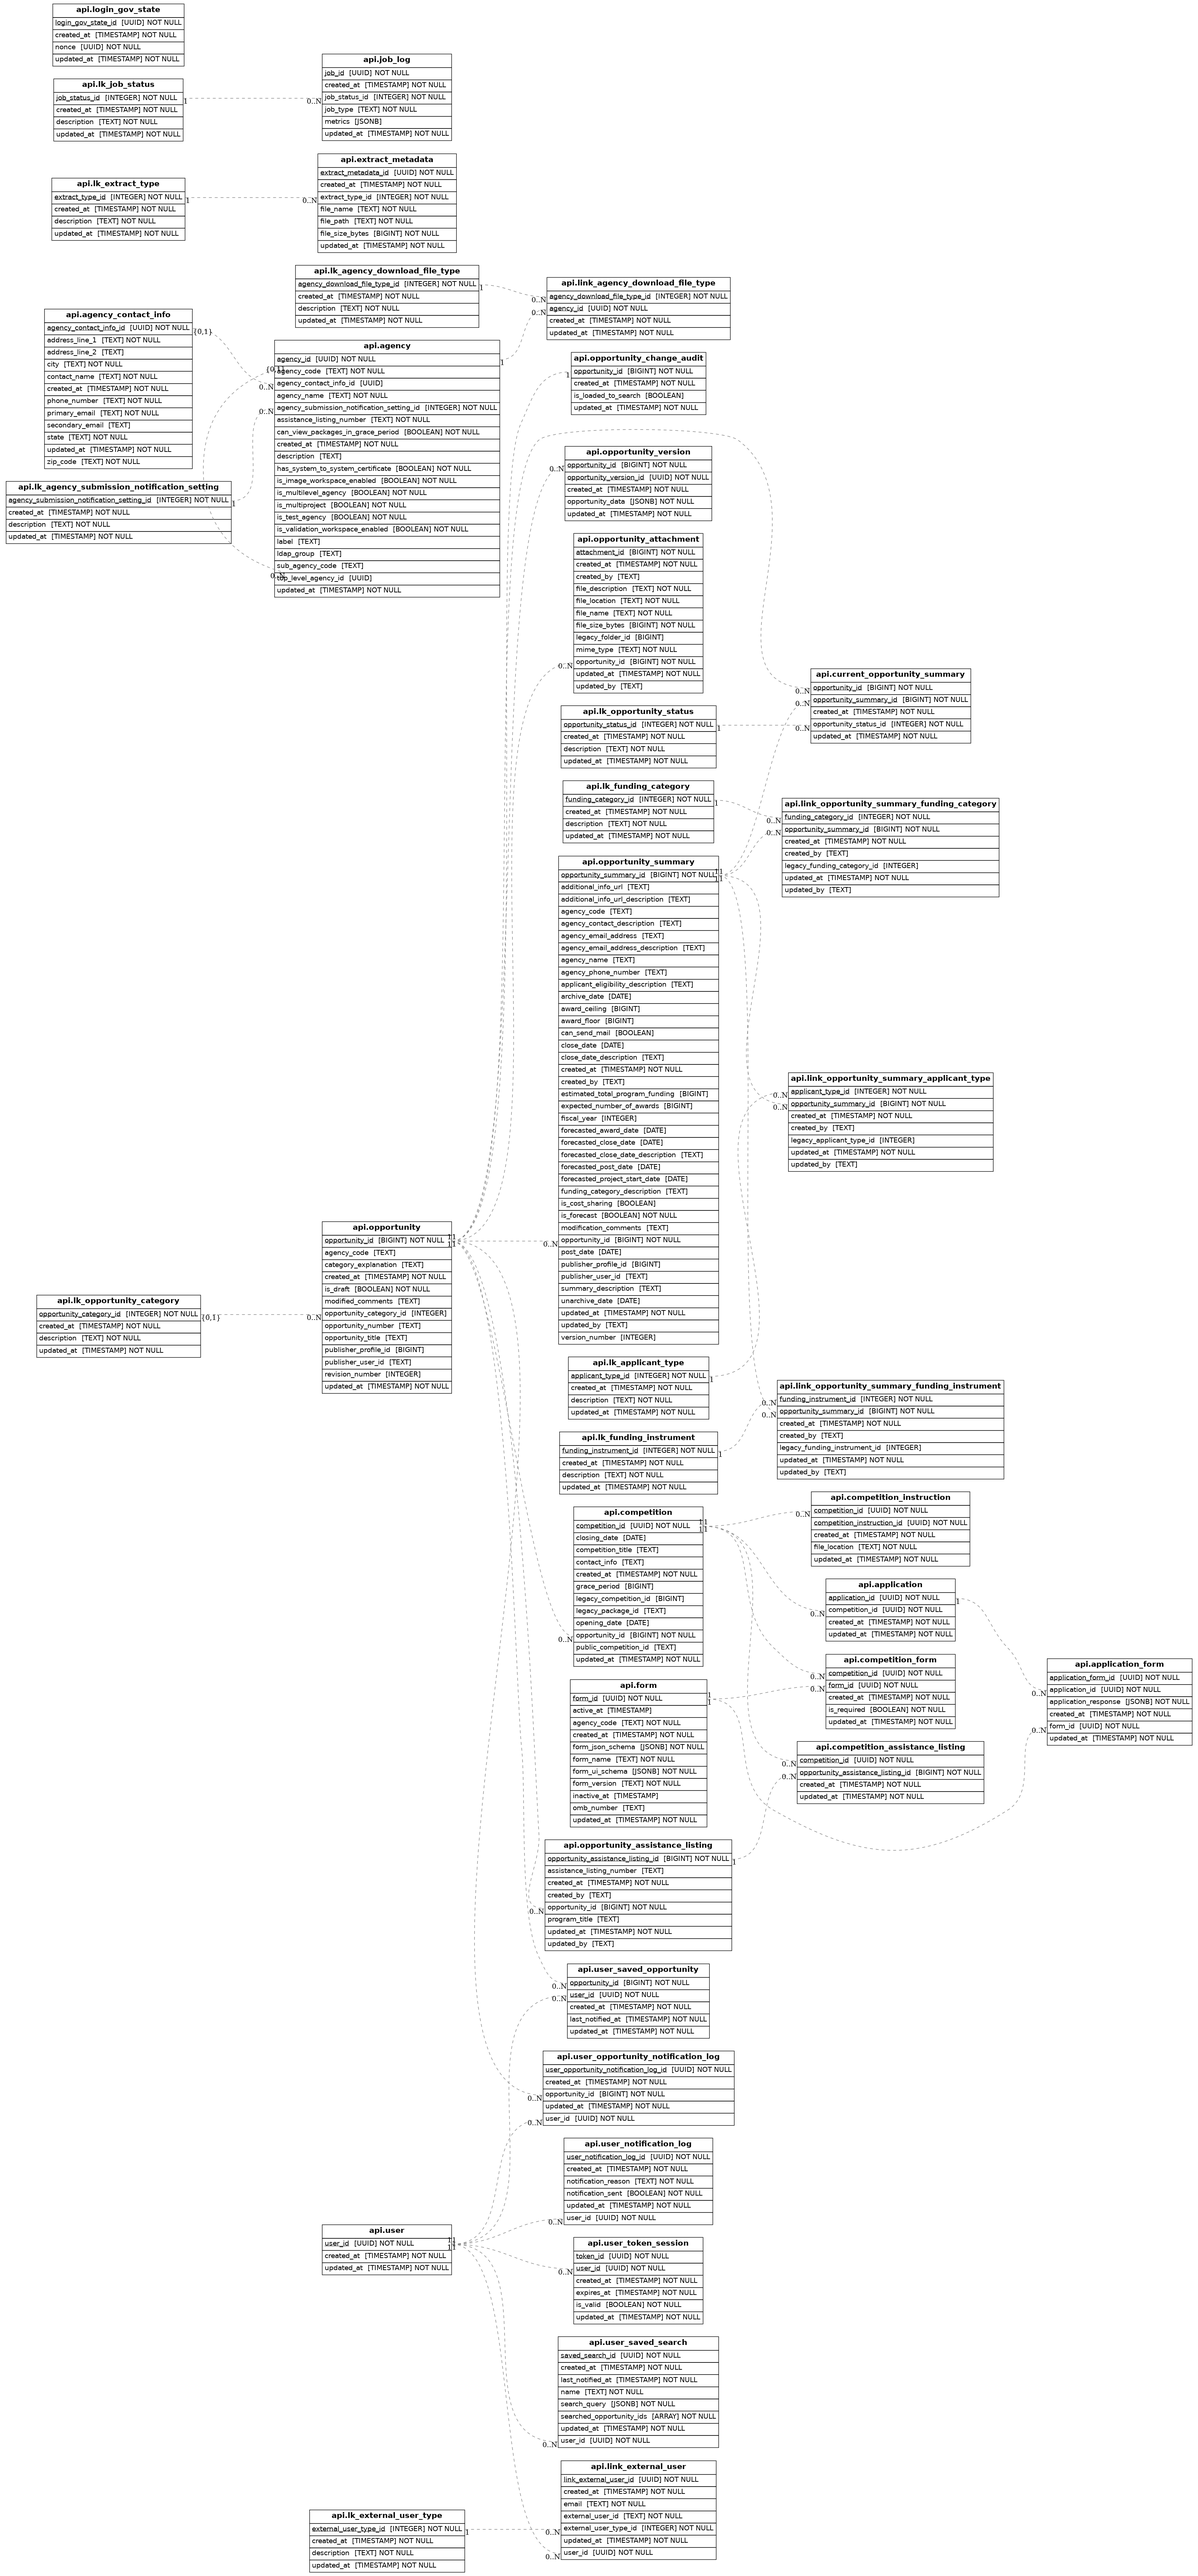
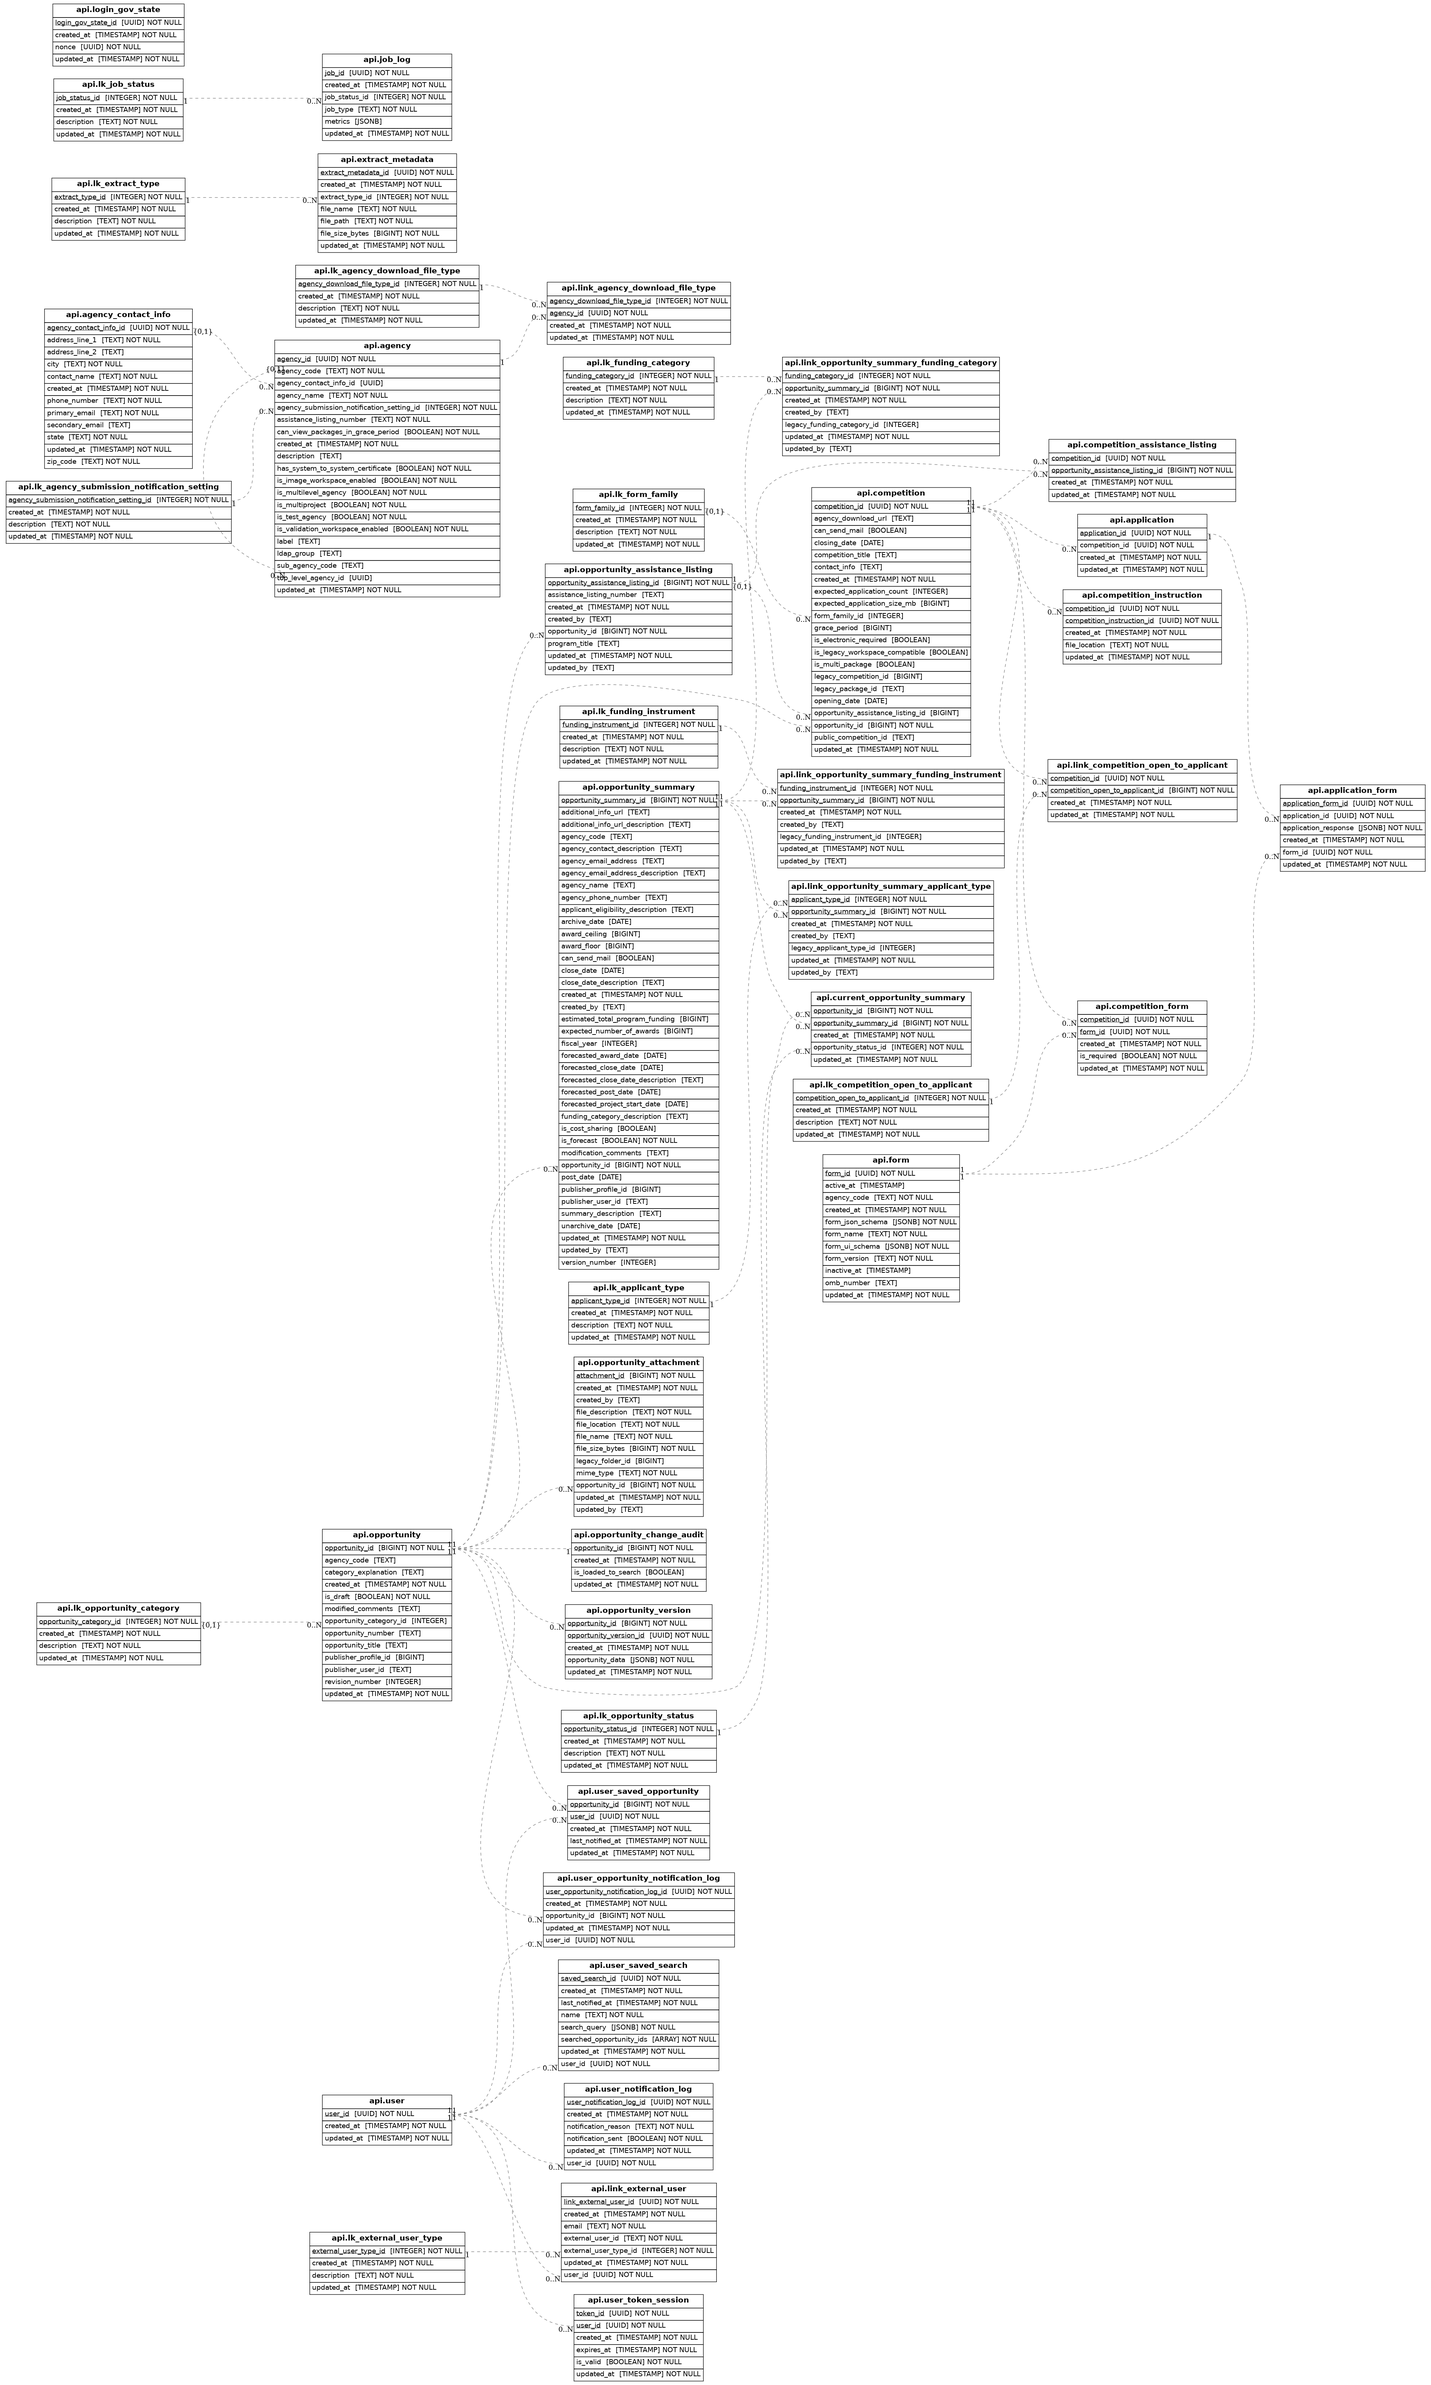
[Issue #4478] Modify our competition table to include extra columns (#4624)
## Summary
Fixes #4478 

### Time to review: 10 mins

## Changes proposed
Add lookup and link tables
Add new columns to `Competition` model
Add migration

## Context for reviewers
This supports the data integration epic for Simpler SOAP:
https://github.com/HHS/simpler-grants-gov/issues/4440

diff --git a/api/src/db/migrations/versions/2025_04_16_add_new_competition_fields.py b/api/src/db/migrations/versions/2025_04_16_add_new_competition_fields.py
@@ -1,0 +1,188 @@
+"""Add new competition fields
+
+Revision ID: aced7c37b75c
+Revises: 617374e55b71
+Create Date: 2025-04-16 19:21:37.501934
+
+"""
+
+import sqlalchemy as sa
+from alembic import op
+
+# revision identifiers, used by Alembic.
+revision = "aced7c37b75c"
+down_revision = "617374e55b71"
+branch_labels = None
+depends_on = None
+
+
+def upgrade():
+    # ### commands auto generated by Alembic - please adjust! ###
+    op.create_table(
+        "lk_competition_open_to_applicant",
+        sa.Column("competition_open_to_applicant_id", sa.Integer(), nullable=False),
+        sa.Column("description", sa.Text(), nullable=False),
+        sa.Column(
+            "created_at",
+            sa.TIMESTAMP(timezone=True),
+            server_default=sa.text("now()"),
+            nullable=False,
+        ),
+        sa.Column(
+            "updated_at",
+            sa.TIMESTAMP(timezone=True),
+            server_default=sa.text("now()"),
+            nullable=False,
+        ),
+        sa.PrimaryKeyConstraint(
+            "competition_open_to_applicant_id", name=op.f("lk_competition_open_to_applicant_pkey")
+        ),
+        schema="api",
+    )
+    op.create_table(
+        "lk_form_family",
+        sa.Column("form_family_id", sa.Integer(), nullable=False),
+        sa.Column("description", sa.Text(), nullable=False),
+        sa.Column(
+            "created_at",
+            sa.TIMESTAMP(timezone=True),
+            server_default=sa.text("now()"),
+            nullable=False,
+        ),
+        sa.Column(
+            "updated_at",
+            sa.TIMESTAMP(timezone=True),
+            server_default=sa.text("now()"),
+            nullable=False,
+        ),
+        sa.PrimaryKeyConstraint("form_family_id", name=op.f("lk_form_family_pkey")),
+        schema="api",
+    )
+    op.create_table(
+        "link_competition_open_to_applicant",
+        sa.Column("competition_id", sa.UUID(), nullable=False),
+        sa.Column("competition_open_to_applicant_id", sa.BigInteger(), nullable=False),
+        sa.Column(
+            "created_at",
+            sa.TIMESTAMP(timezone=True),
+            server_default=sa.text("now()"),
+            nullable=False,
+        ),
+        sa.Column(
+            "updated_at",
+            sa.TIMESTAMP(timezone=True),
+            server_default=sa.text("now()"),
+            nullable=False,
+        ),
+        sa.ForeignKeyConstraint(
+            ["competition_id"],
+            ["api.competition.competition_id"],
+            name=op.f("link_competition_open_to_applicant_competition_id_competition_fkey"),
+        ),
+        sa.ForeignKeyConstraint(
+            ["competition_open_to_applicant_id"],
+            ["api.lk_competition_open_to_applicant.competition_open_to_applicant_id"],
+            name=op.f(
+                "link_competition_open_to_applicant_competition_open_to_applicant_id_lk_competition_open_to_applicant_fkey"
+            ),
+        ),
+        sa.PrimaryKeyConstraint(
+            "competition_id",
+            "competition_open_to_applicant_id",
+            name=op.f("link_competition_open_to_applicant_pkey"),
+        ),
+        schema="api",
+    )
+    op.add_column(
+        "competition", sa.Column("form_family_id", sa.Integer(), nullable=True), schema="api"
+    )
+    op.add_column(
+        "competition",
+        sa.Column("opportunity_assistance_listing_id", sa.BigInteger(), nullable=True),
+        schema="api",
+    )
+    op.add_column(
+        "competition",
+        sa.Column("is_electronic_required", sa.Boolean(), nullable=True),
+        schema="api",
+    )
+    op.add_column(
+        "competition",
+        sa.Column("expected_application_count", sa.Integer(), nullable=True),
+        schema="api",
+    )
+    op.add_column(
+        "competition",
+        sa.Column("expected_application_size_mb", sa.BigInteger(), nullable=True),
+        schema="api",
+    )
+    op.add_column(
+        "competition", sa.Column("is_multi_package", sa.Boolean(), nullable=True), schema="api"
+    )
+    op.add_column(
+        "competition", sa.Column("agency_download_url", sa.Text(), nullable=True), schema="api"
+    )
+    op.add_column(
+        "competition",
+        sa.Column("is_legacy_workspace_compatible", sa.Boolean(), nullable=True),
+        schema="api",
+    )
+    op.add_column(
+        "competition", sa.Column("can_send_mail", sa.Boolean(), nullable=True), schema="api"
+    )
+    op.create_index(
+        op.f("competition_form_family_id_idx"),
+        "competition",
+        ["form_family_id"],
+        unique=False,
+        schema="api",
+    )
+    op.create_foreign_key(
+        op.f("competition_opportunity_assistance_listing_id_opportunity_assistance_listing_fkey"),
+        "competition",
+        "opportunity_assistance_listing",
+        ["opportunity_assistance_listing_id"],
+        ["opportunity_assistance_listing_id"],
+        source_schema="api",
+        referent_schema="api",
+    )
+    op.create_foreign_key(
+        op.f("competition_form_family_id_lk_form_family_fkey"),
+        "competition",
+        "lk_form_family",
+        ["form_family_id"],
+        ["form_family_id"],
+        source_schema="api",
+        referent_schema="api",
+    )
+    # ### end Alembic commands ###
+
+
+def downgrade():
+    # ### commands auto generated by Alembic - please adjust! ###
+    op.drop_constraint(
+        op.f("competition_form_family_id_lk_form_family_fkey"),
+        "competition",
+        schema="api",
+        type_="foreignkey",
+    )
+    op.drop_constraint(
+        op.f("competition_opportunity_assistance_listing_id_opportunity_assistance_listing_fkey"),
+        "competition",
+        schema="api",
+        type_="foreignkey",
+    )
+    op.drop_index(op.f("competition_form_family_id_idx"), table_name="competition", schema="api")
+    op.drop_column("competition", "can_send_mail", schema="api")
+    op.drop_column("competition", "is_legacy_workspace_compatible", schema="api")
+    op.drop_column("competition", "agency_download_url", schema="api")
+    op.drop_column("competition", "is_multi_package", schema="api")
+    op.drop_column("competition", "expected_application_size_mb", schema="api")
+    op.drop_column("competition", "expected_application_count", schema="api")
+    op.drop_column("competition", "is_electronic_required", schema="api")
+    op.drop_column("competition", "opportunity_assistance_listing_id", schema="api")
+    op.drop_column("competition", "form_family_id", schema="api")
+    op.drop_table("link_competition_open_to_applicant", schema="api")
+    op.drop_table("lk_form_family", schema="api")
+    op.drop_table("lk_competition_open_to_applicant", schema="api")
+    # ### end Alembic commands ###

diff --git a/api/src/db/models/competition_models.py b/api/src/db/models/competition_models.py
@@ -3,9 +3,13 @@ from datetime import date, datetime
 
 from sqlalchemy import BigInteger, ForeignKey
 from sqlalchemy.dialects.postgresql import JSONB, UUID
+from sqlalchemy.ext.associationproxy import AssociationProxy, association_proxy
 from sqlalchemy.orm import Mapped, mapped_column, relationship
 
+from src.adapters.db.type_decorators.postgres_type_decorators import LookupColumn
+from src.constants.lookup_constants import CompetitionOpenToApplicant, FormFamily
 from src.db.models.base import ApiSchemaTable, TimestampMixin
+from src.db.models.lookup_models import LkCompetitionOpenToApplicant, LkFormFamily
 from src.db.models.opportunity_models import Opportunity, OpportunityAssistanceListing
 
 
@@ -27,6 +31,28 @@ class Competition(ApiSchemaTable, TimestampMixin):
     closing_date: Mapped[date | None]
     grace_period: Mapped[int | None] = mapped_column(BigInteger)
     contact_info: Mapped[str | None]
+
+    form_family: Mapped[FormFamily | None] = mapped_column(
+        "form_family_id",
+        LookupColumn(LkFormFamily),
+        ForeignKey(LkFormFamily.form_family_id),
+        index=True,
+    )
+    opportunity_assistance_listing_id: Mapped[int | None] = mapped_column(
+        BigInteger, ForeignKey(OpportunityAssistanceListing.opportunity_assistance_listing_id)
+    )
+    open_to_applicants: AssociationProxy[set[CompetitionOpenToApplicant]] = association_proxy(
+        "link_competition_open_to_applicant",
+        "competition_open_to_applicant",
+        creator=lambda obj: LinkCompetitionOpenToApplicant(competition_open_to_applicant=obj),
+    )
+    is_electronic_required: Mapped[bool | None]
+    expected_application_count: Mapped[int | None]
+    expected_application_size_mb: Mapped[int | None] = mapped_column(BigInteger)
+    is_multi_package: Mapped[bool | None]
+    agency_download_url: Mapped[str | None]
+    is_legacy_workspace_compatible: Mapped[bool | None]
+    can_send_mail: Mapped[bool | None]
 
     competition_forms: Mapped[list["CompetitionForm"]] = relationship(
         "CompetitionForm", uselist=True, back_populates="competition", cascade="all, delete-orphan"
@@ -126,3 +152,16 @@ class ApplicationForm(ApiSchemaTable, TimestampMixin):
     form_id: Mapped[uuid.UUID] = mapped_column(UUID, ForeignKey(Form.form_id), nullable=False)
     form: Mapped[Form] = relationship(Form)
     application_response: Mapped[dict] = mapped_column(JSONB, nullable=False)
+
+
+class LinkCompetitionOpenToApplicant(ApiSchemaTable, TimestampMixin):
+    __tablename__ = "link_competition_open_to_applicant"
+
+    competition_id: Mapped[uuid.UUID] = mapped_column(
+        UUID, ForeignKey(Competition.competition_id), primary_key=True
+    )
+    competition_open_to_applicant_id: Mapped[int] = mapped_column(
+        BigInteger,
+        ForeignKey(LkCompetitionOpenToApplicant.competition_open_to_applicant_id),
+        primary_key=True,
+    )

diff --git a/api/src/db/models/lookup_models.py b/api/src/db/models/lookup_models.py
@@ -4,8 +4,10 @@ from src.constants.lookup_constants import (
     AgencyDownloadFileType,
     AgencySubmissionNotificationSetting,
     ApplicantType,
+    CompetitionOpenToApplicant,
     ExternalUserType,
     ExtractType,
+    FormFamily,
     FundingCategory,
     FundingInstrument,
     JobStatus,
@@ -123,6 +125,23 @@ EXTRACT_TYPE_CONFIG = LookupConfig(
     [
         LookupStr(ExtractType.OPPORTUNITIES_JSON, 1),
         LookupStr(ExtractType.OPPORTUNITIES_CSV, 2),
+    ]
+)
+
+FORM_FAMILY_CONFIG = LookupConfig(
+    [
+        LookupStr(FormFamily.SF_424, 1),
+        LookupStr(FormFamily.SF_424_INDIVIDUAL, 2),
+        LookupStr(FormFamily.RR, 3),
+        LookupStr(FormFamily.SF_424_MANDATORY, 4),
+        LookupStr(FormFamily.SF_424_SHORT_ORGANIZATION, 5),
+    ]
+)
+
+COMPETITION_OPEN_TO_APPLICANT_CONFIG = LookupConfig(
+    [
+        LookupStr(CompetitionOpenToApplicant.INDIVIDUAL, 1),
+        LookupStr(CompetitionOpenToApplicant.ORGANIZATION, 2),
     ]
 )
 
@@ -264,3 +283,29 @@ class LkJobStatus(LookupTable, TimestampMixin):
     @classmethod
     def from_lookup(cls, lookup: Lookup) -> "LkJobStatus":
         return LkJobStatus(job_status_id=lookup.lookup_val, description=lookup.get_description())
+
+
+@LookupRegistry.register_lookup(FORM_FAMILY_CONFIG)
+class LkFormFamily(LookupTable, TimestampMixin):
+    __tablename__ = "lk_form_family"
+
+    form_family_id: Mapped[int] = mapped_column(primary_key=True)
+    description: Mapped[str]
+
+    @classmethod
+    def from_lookup(cls, lookup: Lookup) -> "LkFormFamily":
+        return LkFormFamily(form_family_id=lookup.lookup_val, description=lookup.get_description())
+
+
+@LookupRegistry.register_lookup(COMPETITION_OPEN_TO_APPLICANT_CONFIG)
+class LkCompetitionOpenToApplicant(LookupTable, TimestampMixin):
+    __tablename__ = "lk_competition_open_to_applicant"
+
+    competition_open_to_applicant_id: Mapped[int] = mapped_column(primary_key=True)
+    description: Mapped[str]
+
+    @classmethod
+    def from_lookup(cls, lookup: Lookup) -> "LkCompetitionOpenToApplicant":
+        return LkCompetitionOpenToApplicant(
+            competition_open_to_applicant_id=lookup.lookup_val, description=lookup.get_description()
+        )

diff --git a/api/tests/src/db/models/factories.py b/api/tests/src/db/models/factories.py
@@ -23,6 +23,7 @@ import src.adapters.db as db
 import src.db.models.competition_models as competition_models
 import src.db.models.extract_models as extract_models
 import src.db.models.foreign as foreign
+import src.db.models.lookup_models as lookup_models
 import src.db.models.opportunity_models as opportunity_models
 import src.db.models.staging as staging
 import src.db.models.task_models as task_models
@@ -936,6 +937,8 @@ class CompetitionFactory(BaseFactory):
 
     opportunity = factory.SubFactory(OpportunityFactory)
     opportunity_id = factory.LazyAttribute(lambda o: o.opportunity.opportunity_id)
+
+    form_family = factory.fuzzy.FuzzyChoice(lookup_models.FormFamily)
 
     public_competition_id = sometimes_none("ABC-134-56789")
     legacy_package_id = sometimes_none("PKG-00260155")

diff --git a/api/src/constants/lookup_constants.py b/api/src/constants/lookup_constants.py
@@ -131,3 +131,16 @@ class JobStatus(StrEnum):
     STARTED = "started"
     COMPLETED = "completed"
     FAILED = "failed"
+
+
+class FormFamily(StrEnum):
+    SF_424 = "sf-424"
+    SF_424_INDIVIDUAL = "sf-424-individual"
+    RR = "r&r"
+    SF_424_MANDATORY = "sf-424-mandatory"
+    SF_424_SHORT_ORGANIZATION = "sf-424-short-organization"
+
+
+class CompetitionOpenToApplicant(StrEnum):
+    INDIVIDUAL = "individual"
+    ORGANIZATION = "organization"
